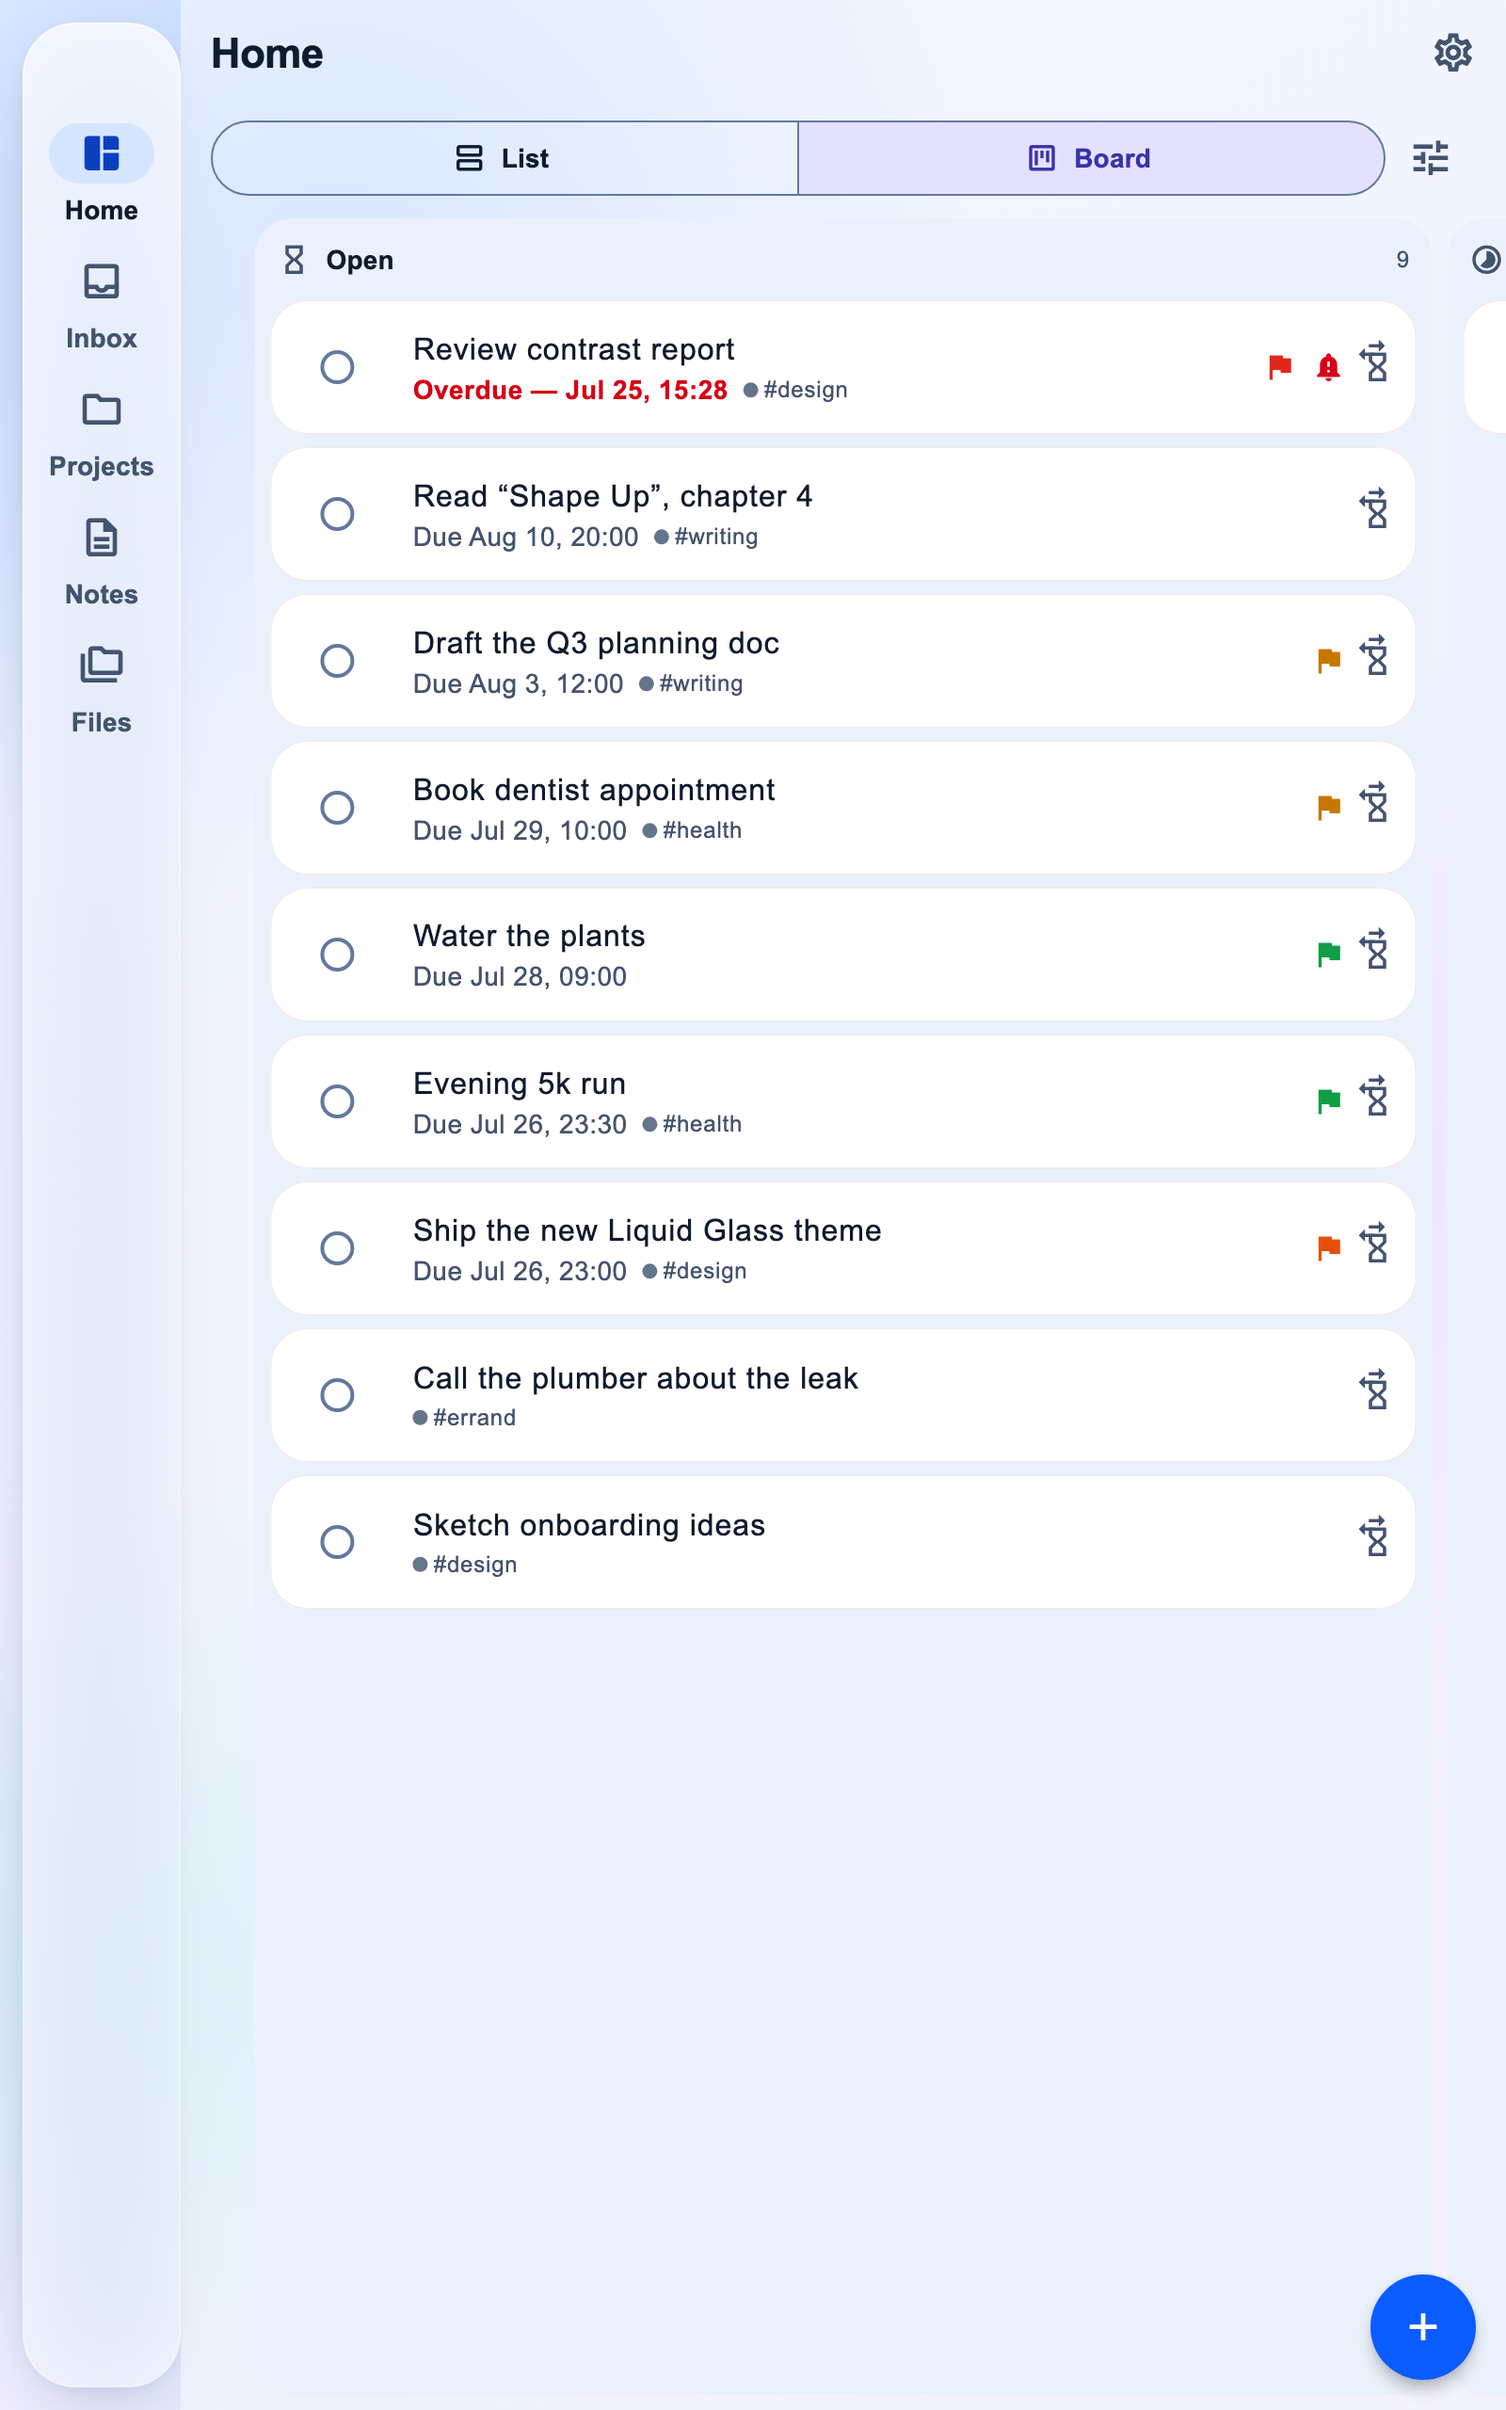
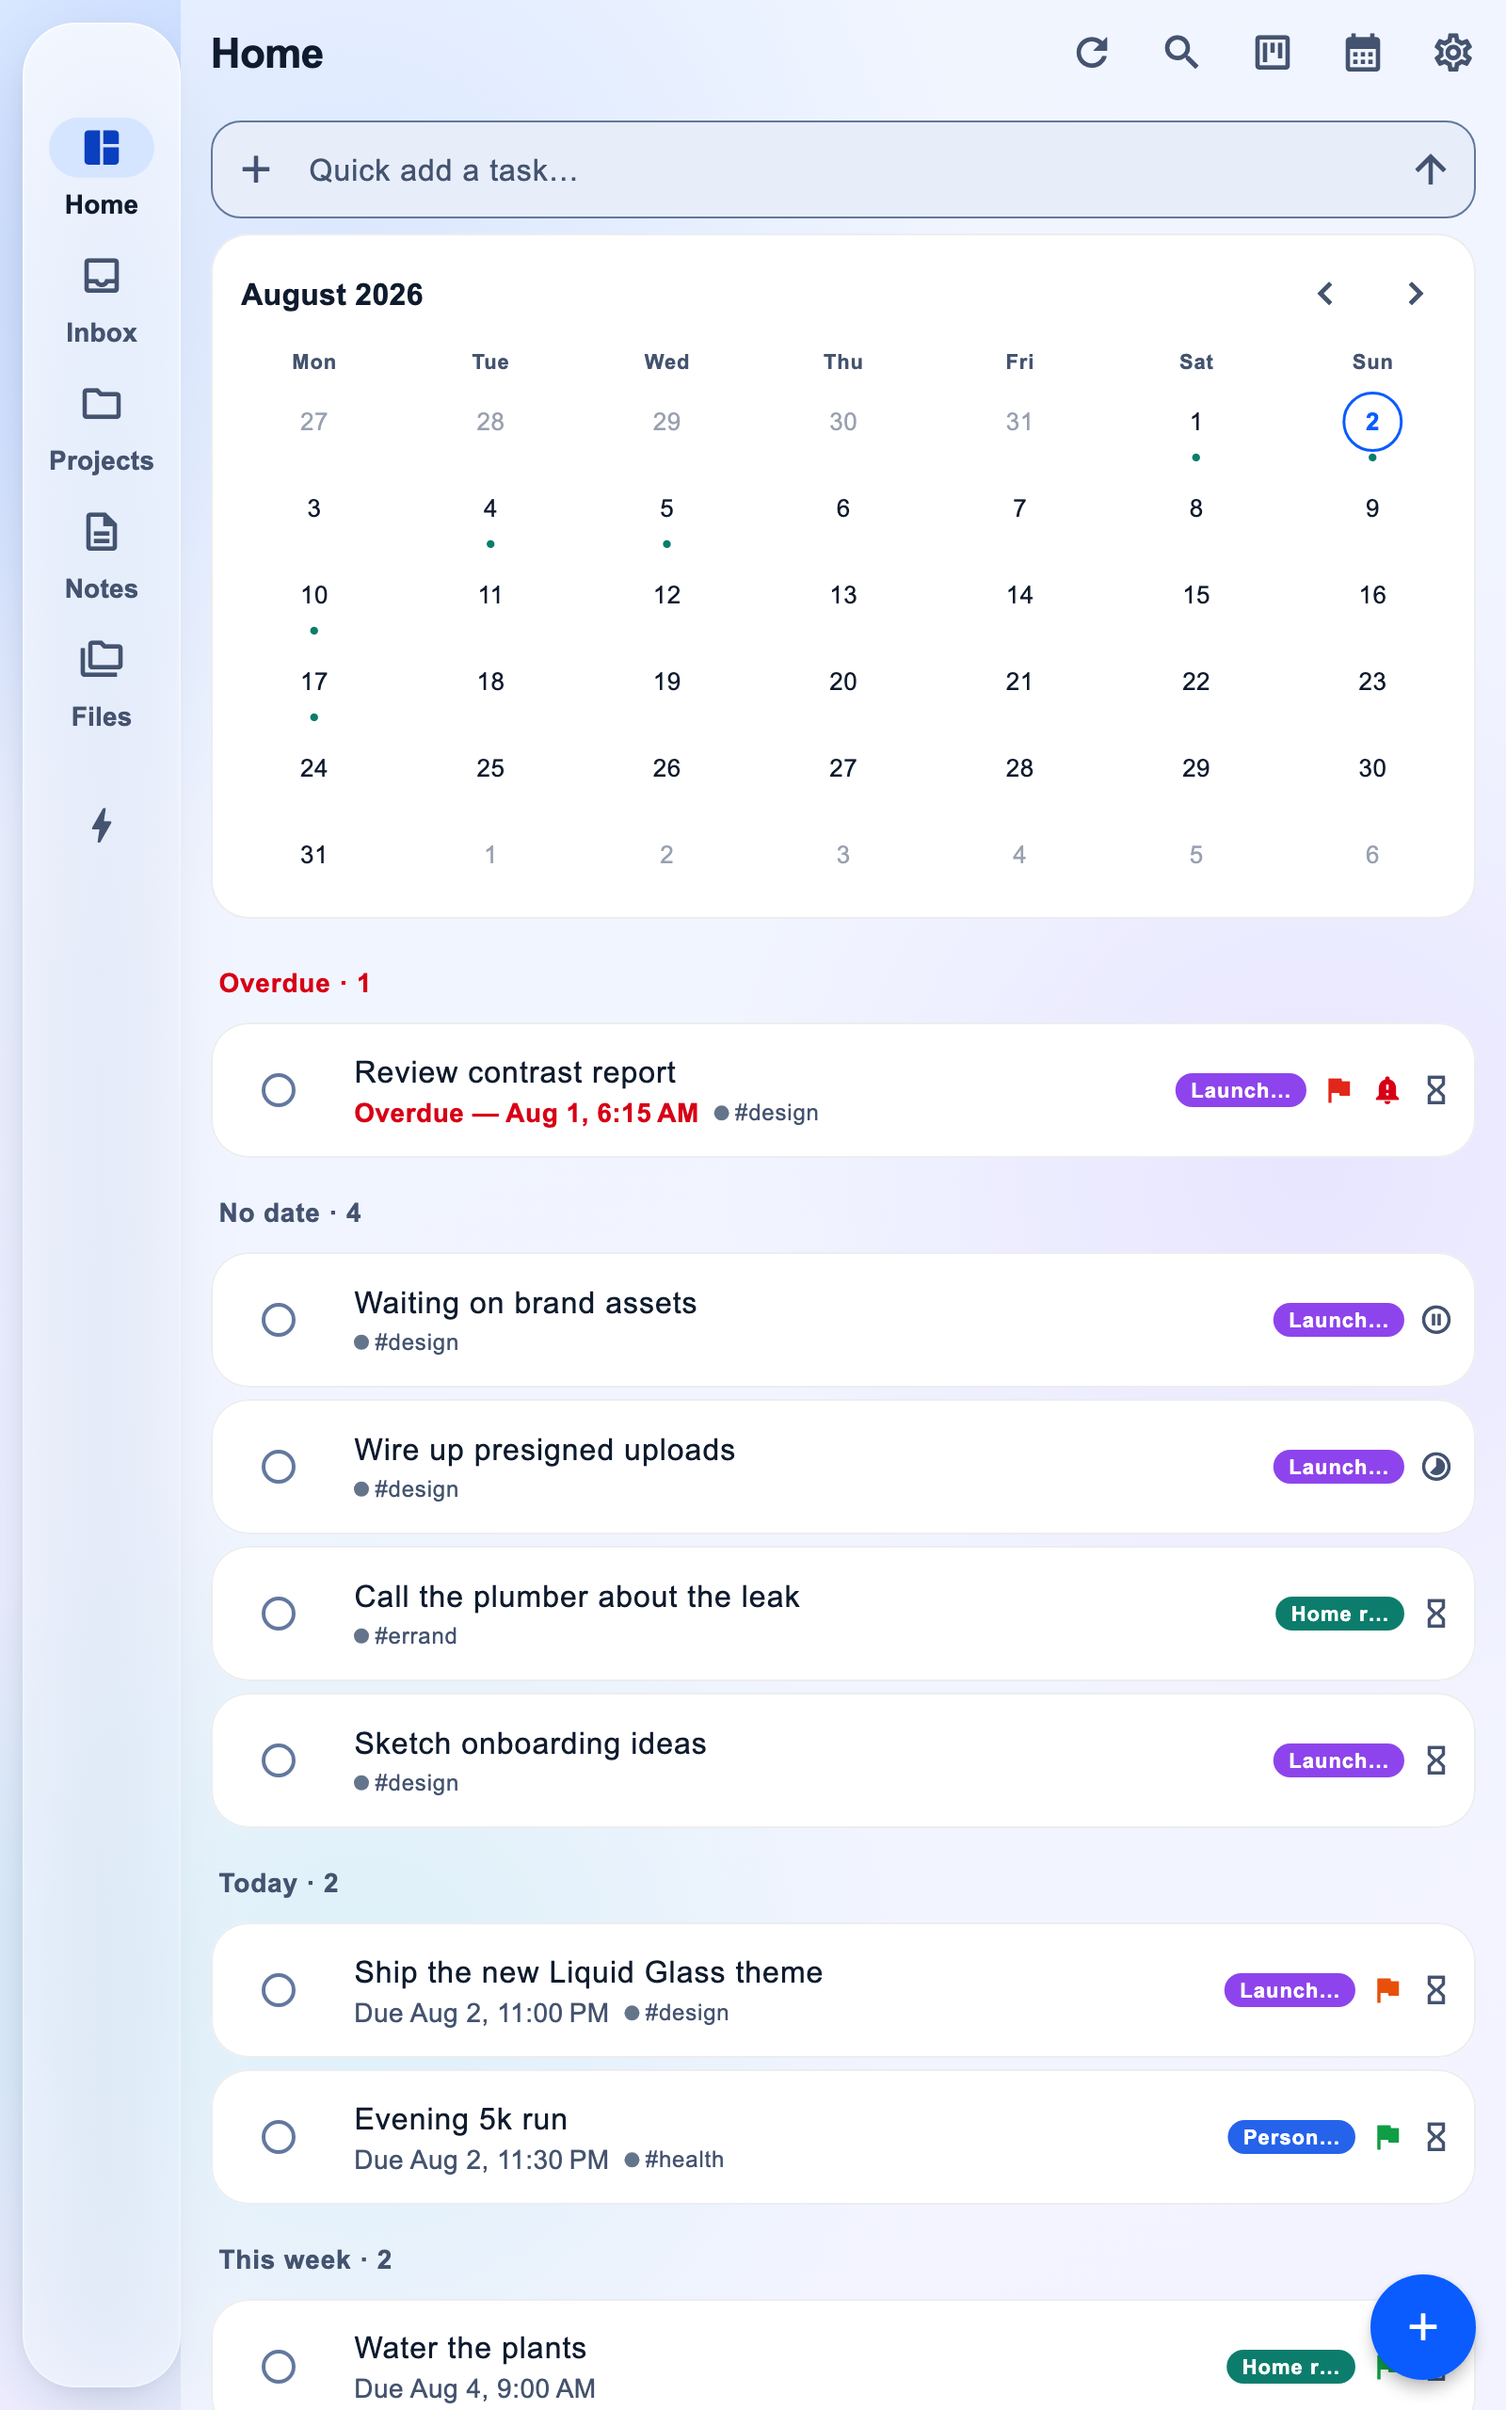
fix(screenshots): the store harness leaked its board toggle into every later shot
Four of the five committed store goldens were byte-identical to their board
twin. Only `store_iphone69_1_home.png` — the very first shot the suite takes —
showed Home; every "home" after it showed the board.

`localKv` is a process-wide singleton that CACHES its SharedPreferences
instance, so `SharedPreferences.setMockInitialValues({})` in the screenshot app
does not clear it. The board test writes `alliswell_home_view = 'board'`, and
that write survived into the next device's home test, and the next, and the
next. The feature tests already knew this — a dozen of them call
`localKv.remove('alliswell_home_view')` in setUp — and the screenshot harness
was the one place that did not. `_shoot` now does it before every render.

The second failure was silent in the other direction. `openBoard` tapped
`find.text('board.viewBoard'.tr())`, but OPH-213 moved Home's list/board switch
out of a segmented control and into an app-bar icon whose only text is a
tooltip. There was nothing to tap, so the goldens still on disk render an
arrangement of Home that has not shipped since 0.9.0. It navigates by
`Key('home-view-toggle')` now, which is what the widget actually exposes.

Both were invisible because goldens are generated output: a broken tap turns
the suite red, but a PNG nobody regenerates just goes quietly stale. The seed
also carries six notes and six files instead of two — two rows read as an empty
app on the 1032x1376 tablet surface, where most of the frame is below the fold
[…]

diff --git a/apps/app/test/design_screenshots_test.dart b/apps/app/test/design_screenshots_test.dart
@@ -18,6 +18,7 @@ import 'package:flutter_riverpod/flutter_riverpod.dart';
 import 'package:flutter_test/flutter_test.dart';
 import 'package:shared_preferences/shared_preferences.dart';
 
+import 'package:alliswell/src/core/kv/local_kv.dart';
 import 'package:alliswell/src/core/retry.dart';
 import 'package:alliswell/src/features/auth/data/secret_store.dart';
 import 'package:alliswell/src/features/auth/data/token_storage.dart';
@@ -241,7 +242,9 @@ FakeApi _seededApi() {
     projectId: personal,
   );
 
-  // Notes.
+  // Notes. Two rows read as an empty app on a 13" iPad — the store set is
+  // rendered at 1032×1376 logical, where a phone-sized workspace leaves most
+  // of the canvas blank. Six is still a believable week of notes.
   api.seedNote(
     title: 'Launch checklist',
     plainText: 'Store copy, screenshots, press kit, changelog.',
@@ -252,6 +255,26 @@ FakeApi _seededApi() {
     title: 'Renovation measurements',
     plainText: 'Kitchen 3.2 × 4.1 m · hallway 1.1 m wide.',
     projectId: reno,
+  );
+  api.seedNote(
+    title: 'Weekly review',
+    plainText: 'What moved, what stalled, what to drop this week.',
+    isPinned: true,
+  );
+  api.seedNote(
+    title: 'Shape Up — chapter notes',
+    plainText: 'Appetite before estimate. Fixed time, variable scope.',
+    projectId: reading,
+  );
+  api.seedNote(
+    title: 'Kitchen supplier quotes',
+    plainText: 'Three quotes in, one still missing the worktop line.',
+    projectId: reno,
+  );
+  api.seedNote(
+    title: 'Press kit outline',
+    plainText: 'Screenshots, icon, one-paragraph pitch, contact.',
+    projectId: launch,
   );
 
   // Files: two folders, workspace uploads inside one, plus a project
@@ -273,6 +296,38 @@ FakeApi _seededApi() {
     folderId: documents,
     mime: 'image/png',
     sizeBytes: 840000,
+  );
+  api.seedFile(
+    name: 'press-kit.zip',
+    targetType: 'workspace',
+    targetId: api.workspaceId,
+    folderId: documents,
+    mime: 'application/zip',
+    sizeBytes: 15800000,
+  );
+  api.seedFile(
+    name: 'kitchen-quote.pdf',
+    targetType: 'workspace',
+    targetId: api.workspaceId,
+    folderId: documents,
+    mime: 'application/pdf',
+    sizeBytes: 380000,
+  );
+  api.seedFile(
+    name: 'launch-timeline.png',
+    targetType: 'workspace',
+    targetId: api.workspaceId,
+    folderId: documents,
+    mime: 'image/png',
+    sizeBytes: 1100000,
+  );
+  api.seedFile(
+    name: 'contract-signed.pdf',
+    targetType: 'workspace',
+    targetId: api.workspaceId,
+    folderId: documents,
+    mime: 'application/pdf',
+    sizeBytes: 640000,
   );
   api.seedFile(
     name: 'hero-mockup.png',
@@ -305,6 +360,13 @@ Future<void> _shoot(
     tester.view.resetDevicePixelRatio();
     tester.platformDispatcher.clearPlatformBrightnessTestValue();
   });
+  // `localKv` is a process-wide singleton that CACHES its SharedPreferences
+  // instance, so `setMockInitialValues({})` does not clear it: without this
+  // line the board toggle written by one shot leaks into every later shot and
+  // the "home" screenshots come out showing the board. That is exactly how
+  // four of the five committed store goldens ended up byte-identical to their
+  // board twin. Same idiom the feature tests use.
+  await localKv.remove('alliswell_home_view');
   debugDisableShadows = false;
   try {
     await tester.pumpWidget(await _signedInScreenshotApp(_seededApi()));
@@ -332,17 +394,36 @@ Future<void> _openSection(WidgetTester tester, String label) async {
 /// that can drift.
 Future<void> loadRealFontsForStore() => _loadRealFonts();
 
+/// Flip Home into the board view. Keyed, not by label: OPH-213 moved the
+/// list/board switch out of a segmented control and into an app-bar icon whose
+/// only text is a tooltip, which silently broke the old `find.text` lookup.
+Future<void> openBoard(WidgetTester tester) =>
+    tester.tap(find.byKey(const Key('home-view-toggle')));
+
+/// Open a top-level section from the shell (rail on tablet/desktop widths).
+Future<void> openSection(WidgetTester tester, AppSection section) =>
+    _openSection(tester, section.title);
+
+/// Files, with a folder opened so the shot shows file rows rather than an
+/// empty folder grid.
+Future<void> openFilesFolder(WidgetTester tester) async {
+  await _openSection(tester, AppSection.files.title);
+  await tester.pumpAndSettle();
+  await tester.tap(find.text('Documents'));
+}
+
 Future<void> shootForStore(
   WidgetTester tester, {
   required Size size,
   required String name,
-  bool openBoard = false,
+  Brightness brightness = Brightness.light,
+  Future<void> Function(WidgetTester tester)? navigate,
 }) => _shoot(
   tester,
   size: size,
-  brightness: Brightness.light,
+  brightness: brightness,
   name: name,
-  navigate: openBoard ? (t) => t.tap(find.text('board.viewBoard'.tr())) : null,
+  navigate: navigate,
 );
 
 void main() {

diff --git a/apps/app/test/store_screenshots_test.dart b/apps/app/test/store_screenshots_test.dart
@@ -6,12 +6,15 @@
 //       test/store_screenshots_test.dart
 //
 // Then copy test/goldens/store_*.png into docs/store/ (goldens are generated
-// output and stay untracked).
+// output and stay untracked), or run `npm run shots:store` which composes the
+// iPad ones straight into store/ios/ipad-13/.
 //
 // Sizes are expressed as LOGICAL pixels at devicePixelRatio 2, so the PNG comes
 // out at exactly twice the logical size — which is what the stores measure.
 import 'package:flutter/material.dart';
 import 'package:flutter_test/flutter_test.dart';
+
+import 'package:alliswell/src/sections.dart';
 
 import 'design_screenshots_test.dart' as design;
 
@@ -28,6 +31,39 @@ const _devices = <String, Size>{
   'android_tablet10': Size(800, 1280),
 };
 
+/// Devices whose store set is generated here rather than captured on real
+/// hardware, and which therefore need the WHOLE story, not just a reference
+/// pair. The iPhone and Android phone listings are built from real simulator
+/// and emulator captures (docs/SCREENSHOTS.md §2–3); no iPad or Android tablet
+/// is on hand, so these renders are the listing.
+const _fullSet = {'ipad13', 'android_tablet10'};
+
+class _Shot {
+  const _Shot(this.name, {this.navigate, this.brightness = Brightness.light});
+
+  final String name;
+  final Future<void> Function(WidgetTester tester)? navigate;
+  final Brightness brightness;
+}
+
+/// The order the listing tells its story in — the same one the composed phone
+/// slides use (STORE-LISTING §3): Home → Board → Projects → Notes → Files →
+/// dark. The numeric prefix is the slide order, so the compositor can just
+/// sort by filename.
+List<_Shot> _shots({required bool full}) => [
+  const _Shot('1_home'),
+  _Shot('2_board', navigate: design.openBoard),
+  if (full) ...[
+    _Shot(
+      '3_projects',
+      navigate: (t) => design.openSection(t, AppSection.projects),
+    ),
+    _Shot('4_notes', navigate: (t) => design.openSection(t, AppSection.notes)),
+    _Shot('5_files', navigate: design.openFilesFolder),
+    const _Shot('6_home_dark', brightness: Brightness.dark),
+  ],
+];
+
 void main() {
   setUpAll(design.loadRealFontsForStore);
 
@@ -35,21 +71,18 @@ void main() {
     final device = entry.key;
     final size = entry.value;
 
-    testWidgets('store · $device · home', skip: !_enabled, (tester) async {
-      await design.shootForStore(
+    for (final shot in _shots(full: _fullSet.contains(device))) {
+      testWidgets('store · $device · ${shot.name}', skip: !_enabled, (
         tester,
-        size: size,
-        name: 'store_${device}_1_home',
-      );
-    });
-
-    testWidgets('store · $device · board', skip: !_enabled, (tester) async {
-      await design.shootForStore(
-        tester,
-        size: size,
-        name: 'store_${device}_2_board',
-        openBoard: true,
-      );
-    });
+      ) async {
+        await design.shootForStore(
+          tester,
+          size: size,
+          name: 'store_${device}_${shot.name}',
+          brightness: shot.brightness,
+          navigate: shot.navigate,
+        );
+      });
+    }
   }
 }
